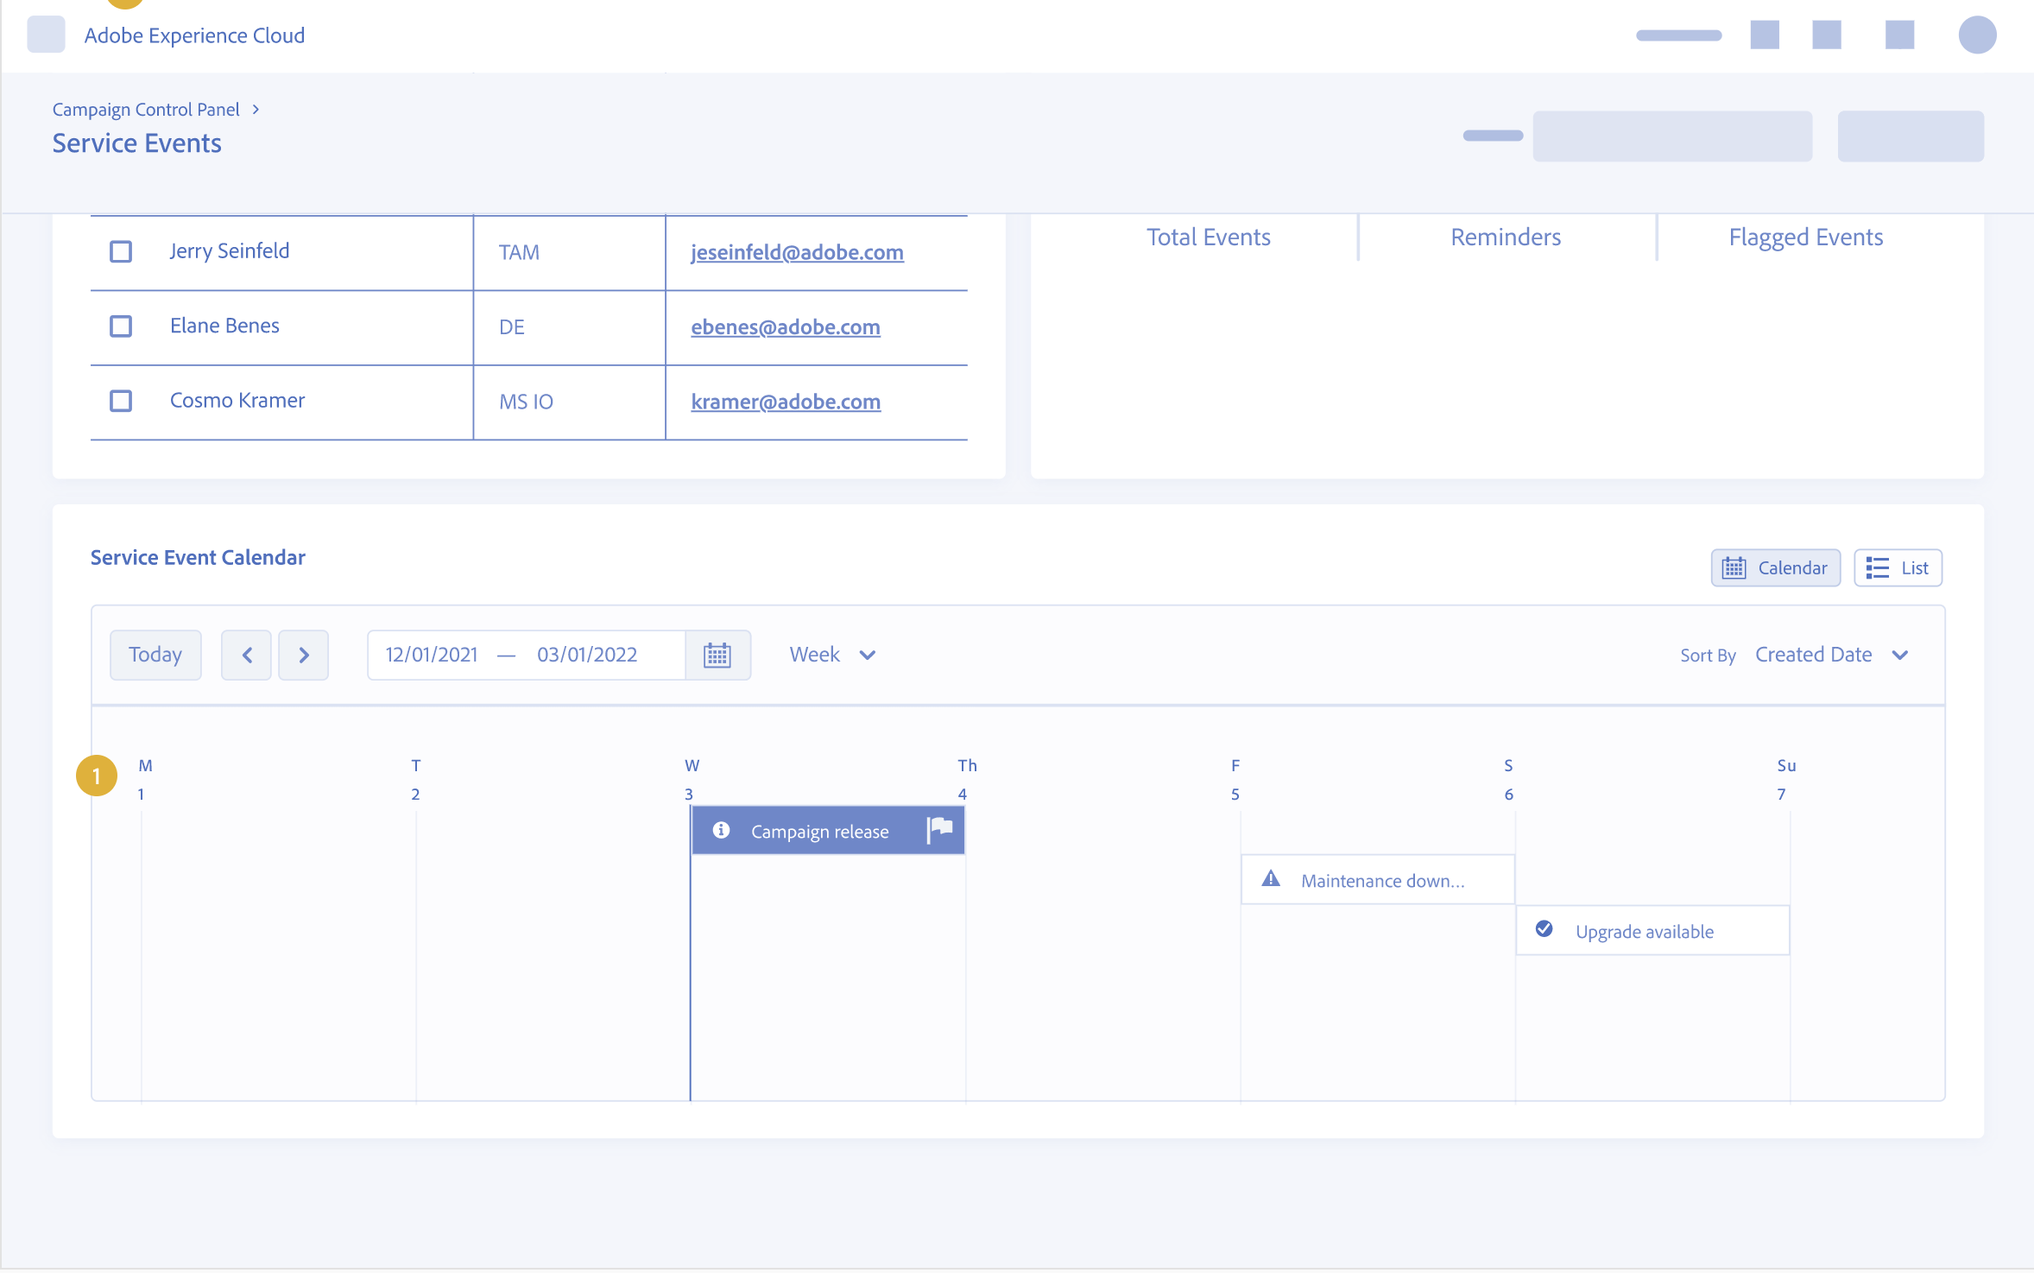
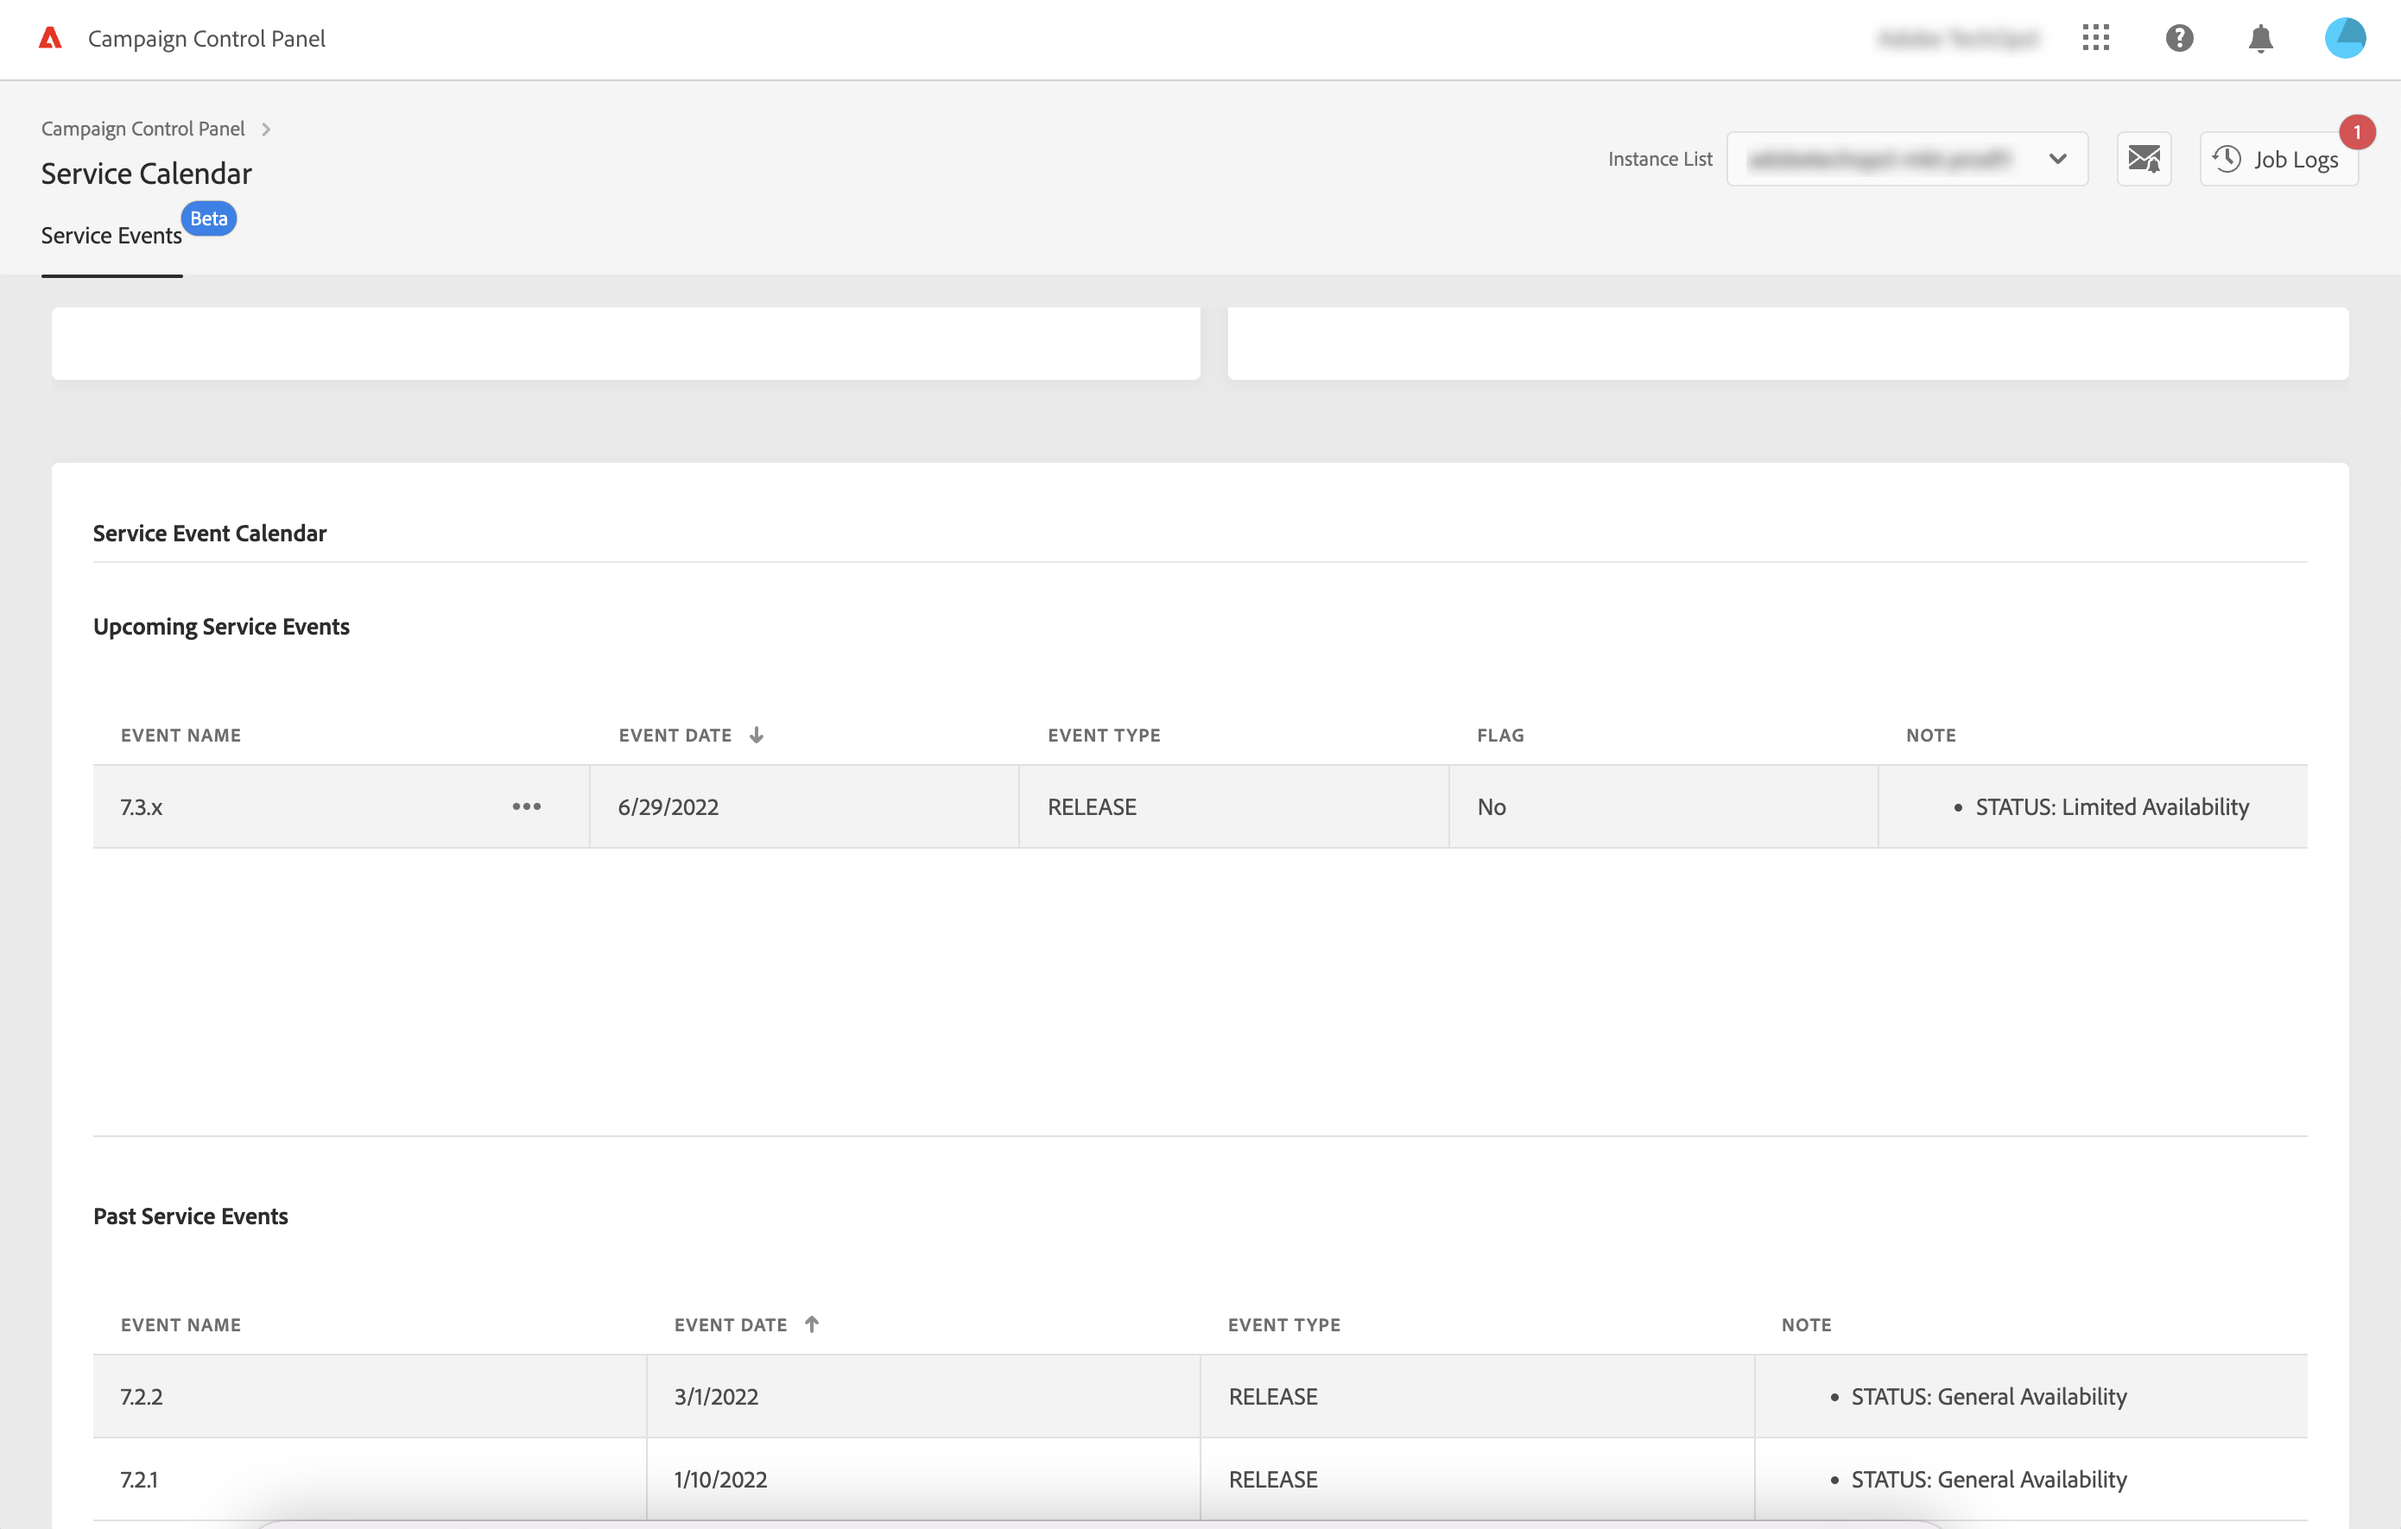
update

diff --git a/help/service-events/service-events.md b/help/service-events/service-events.md
@@ -1,58 +1,54 @@
 ---
 product: campaign
 solution: Campaign 
-title: Monitor events on your instances
-description: Learn more about 
+title: Identify key contacts and events on your instances
+description: Learn how to identify events occurring on your instances and key contacts at Adobe. 
 feature: Control Panel
 role: Architect
 level: Intermediate
 ---
-# Monitor events on your instances
+# Identify key contacts and events on your instances {#keycontacts-events}
 
 >[!CONTEXTUALHELP]
 >id="xxxx"
 >title="xxxx"
 >abstract="xxxx"
 
-With Control Panel, you can monitor all past and upcoming events occurring on your instances, from Campaign releases to maintenance operations.
+Identifying events planned on your instances is essential to monitor your Campaign instances.
 
-Events are accessible from the xxx card on Control Panel homepage.
+With Control Panel, you can monitor releases and service reviews occurring on your instances and access a list of key contacts at Adobe for any request or issue.
 
-The **[!UICONTROL Service Event Calendar]** section shows all past and planned events for the selected instance. Click the **[!UICONTROL list]** button to display the events in a sortable table.
+These information are accessible from the **[!UICONTROL Service Calendar]** card on Control Panel homepage.
 
-Monitored events include:
+## Key contacts {#key-contacts}
 
-* Releases
-* Service reviews
+The **[!UICONTROL Key contacts]** section lists the persons at Adobe that you can contact for any request or issue on your instances.
+
+![](assets/service-events-contacts.png)
+
+Key contacts include the following roles:
+
+* **[!UICONTROL TAM]**: Technical Account Manager,
+* **[!UICONTROL CSM]**: Customer Success Manager,
+* **[!UICONTROL Deliverability]**: point of contact for deliverability operations,
+* **[!UICONTROL Transition Manager]**: Managed Services Transition Manager (Managed Services Account only),
+* **[!UICONTROL On-boarding Specialist]**: Specialist assigned to the account to help you on-board onto Campaign Classic (Managed Services Account only).
+
+## Events {#events}
+
+The **[!UICONTROL Service Event Calendar]** section shows all past and upcoming releases and service reviews for the selected instance.
 
 ![](assets/service-events-calendar.png)
 
-You can assign a flag to one or several events to keep track of them.
+The **[!UICONTROL Note]** column provides information on the status of each release:
 
-## Set up reminders
+* **[!UICONTROL General availability]**: TBC
+* **[!UICONTROL Limited availability]**: TBC
+* **[!UICONTROL Release candidate]**: TBC
+* **[!UICONTROL Pre release]**: TBC
+* **[!UICONTROL No longer available]**: TBC
+* **[!UICONTROL Deprecated]**: TBC
 
->[!CONTEXTUALHELP]
->id="xxxx"
->title="xxxx"
->abstract="xxxx"
+You can assign a flag to one or several upcoming events to keep track of them. To do this, click the ellipse button next to the event name.
 
-Control Panel allows you to set up reminders to be alerted before a specifc event takes place. To do this, xxxxxx.
-
-(delay?) before the events occurs, you will be notified by a control panel alert and email.
-
-## Key contacts
-
->[!CONTEXTUALHELP]
->id="xxxx"
->title="xxxx"
->abstract="xxxx"
-
-The Key contacts section lists all the persons in Adobe that you can contact in case of any issue or question:
-
-* TAM: 
-* CSM: 
-* Deliverability: 
-* Transition Manager:
-* On-boarding Specialist:
-
-![](assets/service-events-contacts.png)
+![](assets/service-events-flag.png)

diff --git a/help/TOC.md b/help/TOC.md
@@ -17,8 +17,6 @@ level: Beginner
   + [Accessing Control Panel](discover/using/accessing-control-panel.md)
   + [Managing permissions to Control Panel](discover/using/managing-permissions.md)
   + [Discovering Control Panel interface](discover/using/discovering-the-interface.md)
-+ Monitor events on your instances {#monitor-events}
-  + [About events monitoring]()
 + SFTP management {#sftp-management}
   + [About SFTP management](sftp/using/about-sftp-management.md)
   + [SFTP storage management](sftp/using/sftp-storage-management.md)
@@ -51,4 +49,5 @@ level: Beginner
   + [URL permissions](instances-settings/using/url-permissions.md)
   + [Instance details](instances-settings/using/instance-details.md)
   + [GPG Keys management](instances-settings/using/gpg-keys-management.md)
++ [Identify key contacts and events on your instances](service-events/using/service-events.md)
 + [FAQ](faq.md)
